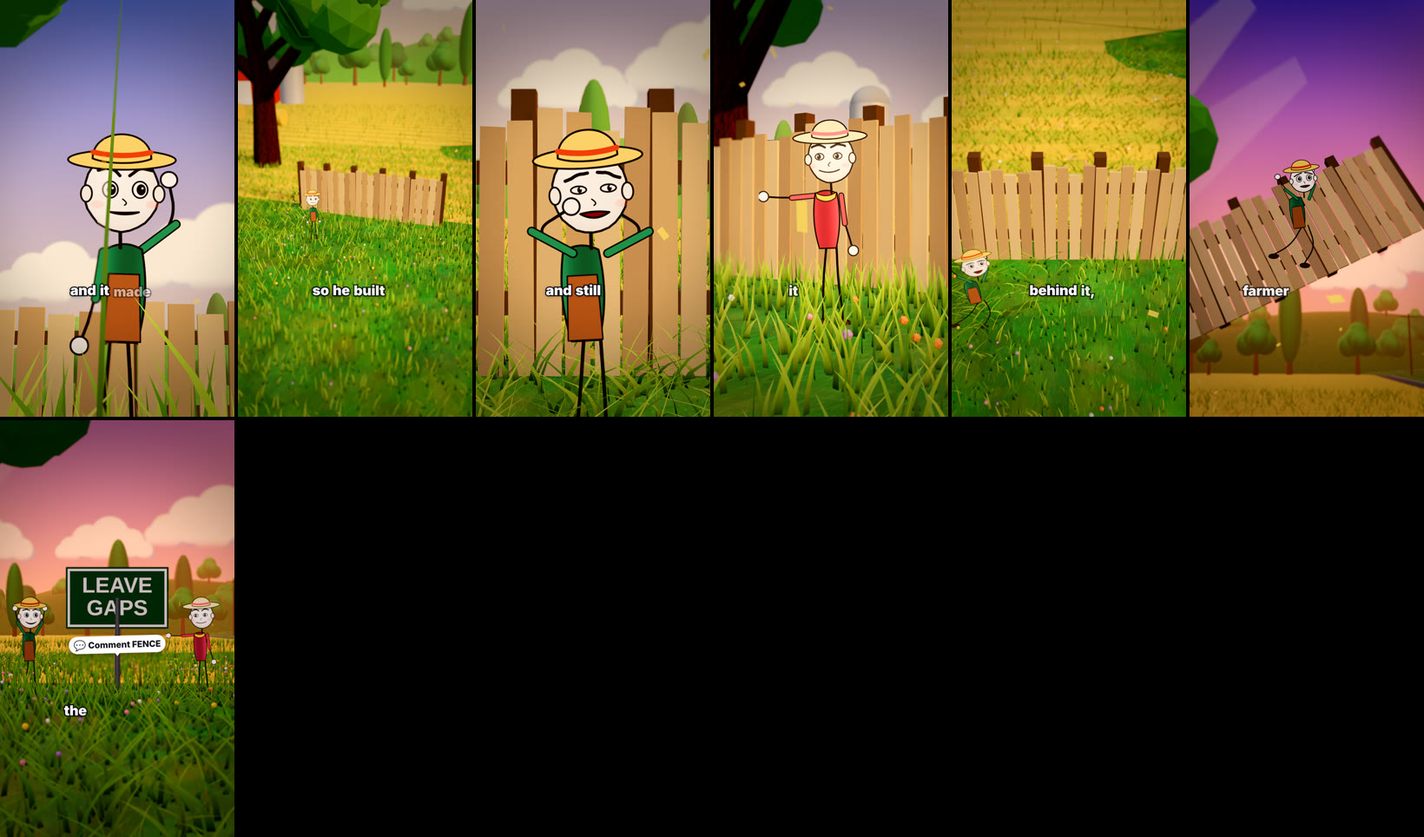
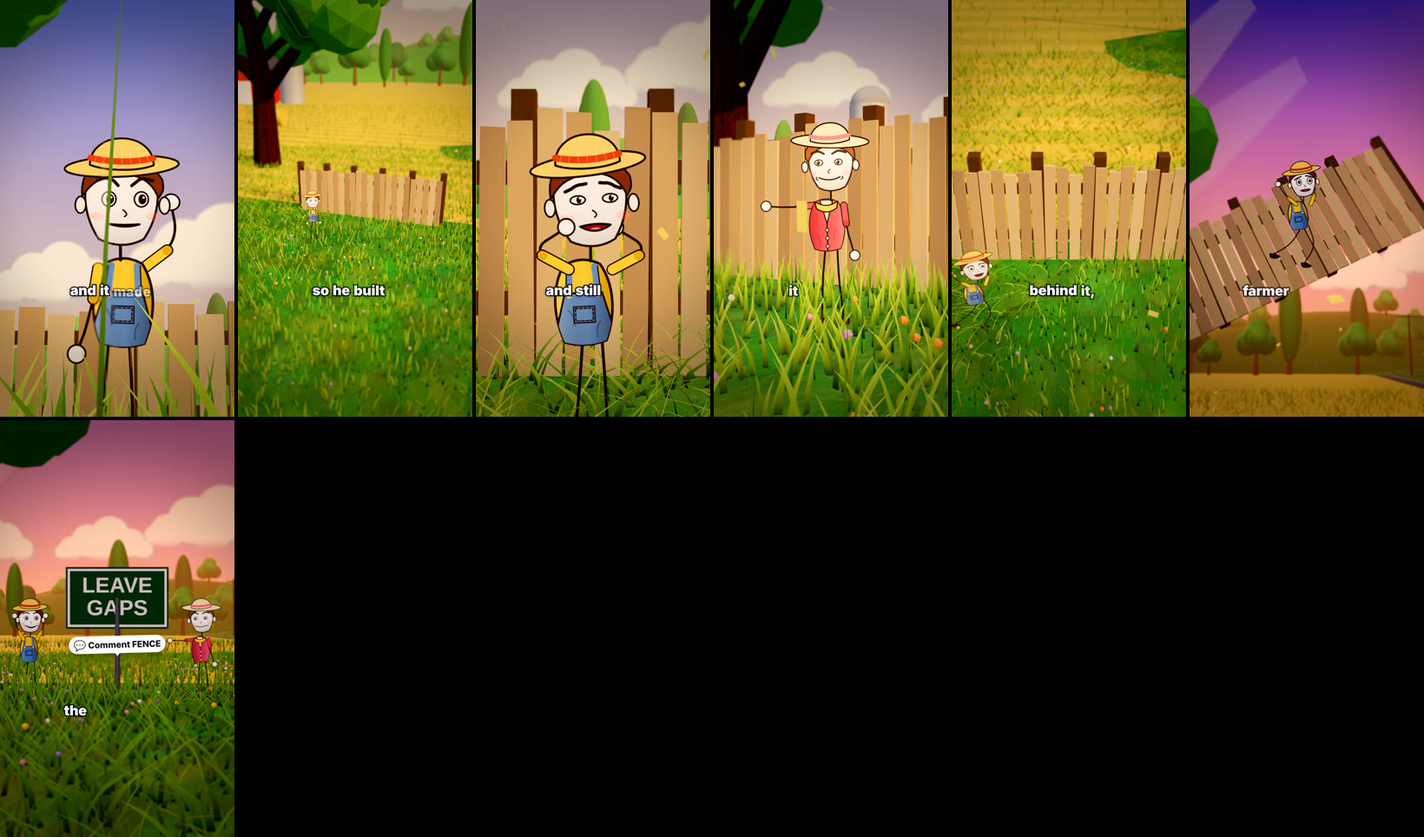
Character redesign for approval: exaggerated body types (style 2 canvas characters), chunky big-head clothed characters (style 3), character sheet tool and sheets

diff --git a/reel-studio/remotion-template/src/three/stickdraw.js b/reel-studio/remotion-template/src/three/stickdraw.js
@@ -2,7 +2,7 @@
 // Joint-driven: shoulders, elbows, hips, knees, torso lean, head tilt, a 3/4 turn, brows, blinking eyes, a continuous mouth, squash and stretch,
 // and the slightly boiling line of hand-drawn animation (the line re-wobbles at 12 fps). Pure function of its arguments.
 //   drawStick(ctx, W, H, s)  s = { t, pose: {...joints}, look:{...costume}, expr:{brow, tilt, smile, open, eyes, look:[x,y]}, turn, walk, seed }
-const R = Math.PI / 180, INK = '#161616';
+const R = Math.PI / 180, INK = '#241a15';
 export const POSES = {
   idle:   { sL: [8, 10], sR: [8, 10], hL: [4, 4], hR: [4, 4], lean: 0, tilt: 0 },
   point:  { sL: [8, 10], sR: [84, 8], hL: [4, 4], hR: [4, 4], lean: 4, tilt: 3 },
@@ -26,60 +26,71 @@ export function blendPose(a, b, k) { const o = {}; for (const key of Object.keys
 export function blendExpr(a, b, k) { const o = {}; for (const key of Object.keys(a)) o[key] = mix(a[key], b[key], k); return o; }
 
 export function drawStick(ctx, W, H, s) {
-  const { t = 0, pose = POSES.idle, look = {}, expr = EXPR.neutral, turn = 0, walk = 0, seed = 1 } = s, u = H / 1160, fr = Math.floor(t * 12), L = (w) => w * u;
+  const { t = 0, pose = POSES.idle, look = {}, expr = EXPR.neutral, turn = 0, walk = 0, seed = 1 } = s, u = H / 1420, B = { headS: 1.3, torsoW: 1, torsoH: 230, legL: 430, hand: 34, shoe: 1.3, armL: 1.1, ...(look.body || {}) }, fr = Math.floor(t * 12);
   ctx.clearRect(0, 0, W, H); ctx.save(); ctx.translate(W / 2, H * 0.985); ctx.scale(u, u); ctx.lineCap = 'round'; ctx.lineJoin = 'round';
-  const bob = Math.sin(t * 2.2 + seed) * 3 + Math.abs(Math.sin(walk * Math.PI)) * -16 * (walk ? 1 : 0), sq = 1 + Math.sin(t * 2.2 + seed) * 0.006;
-  const wb = (i, a = 2.2) => wob(seed + fr * 0.37, i, a);                       // boiling line: new wobble every 1/12 s
+  const wb = (i, a = 1.8) => wob(seed + fr * 0.37, i, a);
+  const bob = Math.sin(t * 2.2 + seed) * 3 + Math.abs(Math.sin(walk * Math.PI)) * -14 * (walk ? 1 : 0), lean = pose.lean * R + walk * 0.05;
+  // pen: every outline is inked twice, a firm line and a thinner offset one, so the weight swells and thins like a drawn line
+  const pen = (w, col = INK) => { ctx.strokeStyle = col; ctx.lineWidth = w; ctx.stroke(); ctx.save(); ctx.translate(1.6 + wb(31, 0.6), -1.2 + wb(32, 0.6)); ctx.globalAlpha = 0.5; ctx.lineWidth = w * 0.55; ctx.stroke(); ctx.restore(); };
   const stroke = (w, col = INK) => { ctx.strokeStyle = col; ctx.lineWidth = w; };
-  const line = (pts, w, col = INK) => { stroke(w, col); ctx.beginPath(); ctx.moveTo(pts[0][0] + wb(1), pts[0][1] + wb(2)); for (let i = 1; i < pts.length; i++) { const p = pts[i], q = pts[i - 1]; ctx.quadraticCurveTo(q[0] + wb(i * 3), q[1] + wb(i * 5), (p[0] + q[0]) / 2 + wb(i * 7), (p[1] + q[1]) / 2 + wb(i * 11)); } ctx.lineTo(pts[pts.length - 1][0] + wb(13), pts[pts.length - 1][1] + wb(17)); ctx.stroke(); };
-  const lean = pose.lean * R + walk * 0.05, hipY = -410 + bob, shY = -690 + bob, shX = Math.sin(lean) * 120, hdY = -870 + bob * 1.2;
-  const limb = (ox, oy, a1, a2, l1, l2, w, sd = 1) => { const e = [ox + sd * Math.sin(a1) * l1, oy + Math.cos(a1) * l1], h = [e[0] + sd * Math.sin(a1 + a2) * l2, e[1] + Math.cos(a1 + a2) * l2]; line([[ox, oy], e, h], w); return h; };
-  // legs (hip angle, knee bend); walking swings them in opposition
-  const sw = walk ? Math.sin(walk * Math.PI * 2) : 0, dirx = turn >= 0 ? 1 : -1, sp = Math.abs(turn) > 0.5 ? 0.5 : 0.12;   // side-on walk swings the legs along x, front-on lifts the knees
+  const line = (pts, w, col = INK) => { ctx.beginPath(); ctx.moveTo(pts[0][0] + wb(1), pts[0][1] + wb(2)); for (let i = 1; i < pts.length; i++) { const p = pts[i], q = pts[i - 1]; ctx.quadraticCurveTo(q[0] + wb(i * 3), q[1] + wb(i * 5), (p[0] + q[0]) / 2 + wb(i * 7), (p[1] + q[1]) / 2 + wb(i * 11)); } ctx.lineTo(pts[pts.length - 1][0] + wb(13), pts[pts.length - 1][1] + wb(17)); pen(w, col); };
+  const hipY = -B.legL + bob, shY = hipY - B.torsoH, shX = Math.sin(lean) * 110, hdY = shY - 52 - 146 * B.headS + bob * 0.3;
+  const limb = (ox, oy, a1, a2, l1, l2, w, sd = 1) => { const e = [ox + sd * Math.sin(a1) * l1, oy + Math.cos(a1) * l1], h = [e[0] + sd * Math.sin(a1 + a2) * l2, e[1] + Math.cos(a1 + a2) * l2]; line([[ox, oy], e, h], w); return { e, h }; };
+  const dirx = turn >= 0 ? 1 : -1, sw = walk ? Math.sin(walk * Math.PI * 2) : 0, sp = Math.abs(turn) > 0.5 ? 0.5 : 0.12;
   const thL = -pose.hL[0] * R - sw * sp * dirx, thR = pose.hR[0] * R + sw * sp * dirx, kL = (pose.hL[1] + Math.max(0, sw) * 40) * R, kR = (pose.hR[1] + Math.max(0, -sw) * 40) * R;
-  const boot = (p, ang) => { ctx.save(); ctx.translate(p[0], p[1] + 8); ctx.rotate(ang); stroke(L(7)); ctx.fillStyle = look.boots || '#2b2118'; ctx.beginPath(); ctx.ellipse(10 * dirx, 0, 46, 22, 0, 0, 7); ctx.fill(); ctx.stroke(); ctx.restore(); };
-  const lg = (hx, th, kb) => { const e = [hx + Math.sin(th) * 205, hipY + Math.cos(th) * 205], h = [e[0] + Math.sin(th - kb * Math.sign(th || 1) * 0.0 + kb * -1 * dirx) * 205, e[1] + Math.cos(th + kb * -1 * dirx) * 205]; line([[hx, hipY], e, h], 12); return h; };
-  const fL = lg(-26 + shX * 0.3, thL, kL), fR = lg(26 + shX * 0.3, thR, kR); boot(fL, 0); boot(fR, 0.05);
-  // back arm (viewer's right), torso, head, front arm
-  const hand = (p, col = '#fff') => { stroke(L(7)); ctx.fillStyle = col; ctx.beginPath(); ctx.arc(p[0], p[1], 27, 0, 7); ctx.fill(); ctx.stroke(); };
-  const armOf = (side, a) => { const ox = shX + side * 56, oy = shY + 20, e = [ox + side * Math.sin(a[0] * R) * 150, oy + Math.cos(a[0] * R) * 150], h = limb(ox, oy, a[0] * R, a[1] * R, 150, 150, 10, side); if (look.shirt) { ctx.lineCap = 'round'; ctx.strokeStyle = INK; ctx.lineWidth = 31; ctx.beginPath(); ctx.moveTo(ox, oy); ctx.lineTo(e[0], e[1]); ctx.stroke(); ctx.strokeStyle = look.shirt; ctx.lineWidth = 21; ctx.beginPath(); ctx.moveTo(ox, oy); ctx.lineTo(e[0], e[1]); ctx.stroke(); } return h; }, aR = armOf(1, pose.sR); hand(aR);
-  // torso (shirt, overalls)
-  const sh = look.shirt || '#2F7D5B', tw = 56, g = ctx.createLinearGradient(-tw, 0, tw, 0); g.addColorStop(0, sh); g.addColorStop(1, '#00000033');
-  ctx.save(); ctx.translate(shX * 0.5, 0); ctx.rotate(lean * 0.6); ctx.beginPath(); ctx.moveTo(-tw + wb(3), shY + 10); ctx.bezierCurveTo(-tw - 22, shY + 130, -tw - 10, hipY - 60, -tw + 10 + wb(4), hipY + 20); ctx.lineTo(tw - 10 + wb(5), hipY + 20); ctx.bezierCurveTo(tw + 10, hipY - 60, tw + 22, shY + 130, tw + wb(6), shY + 10); ctx.quadraticCurveTo(0, shY - 22, -tw, shY + 10); ctx.closePath();
-  ctx.fillStyle = sh; ctx.fill(); ctx.fillStyle = g; ctx.fill(); stroke(L(7.5)); ctx.stroke();
-  if (look.apron) { ctx.fillStyle = look.apron; ctx.beginPath(); ctx.moveTo(-48, shY + 90); ctx.lineTo(48, shY + 90); ctx.lineTo(56, hipY + 18); ctx.lineTo(-56, hipY + 18); ctx.closePath(); ctx.fill(); stroke(L(5)); ctx.stroke(); }
-  if (look.overalls) { ctx.fillStyle = look.overalls; ctx.beginPath(); ctx.moveTo(-56, shY + 130); ctx.lineTo(56, shY + 130); ctx.lineTo(tw - 8, hipY + 20); ctx.lineTo(-tw + 8, hipY + 20); ctx.closePath(); ctx.fill(); stroke(L(6)); ctx.stroke(); [-1, 1].forEach((sd) => { ctx.beginPath(); ctx.moveTo(sd * 40, shY + 130); ctx.lineTo(sd * 30, shY + 20); ctx.stroke(); }); }
-  if (look.scarf) { ctx.fillStyle = look.scarf; ctx.beginPath(); ctx.moveTo(-tw, shY + 4); ctx.quadraticCurveTo(0, shY + 40, tw, shY + 4); ctx.lineTo(tw - 6, shY + 34); ctx.quadraticCurveTo(0, shY + 70, -tw + 6, shY + 34); ctx.closePath(); ctx.fill(); stroke(L(5)); ctx.stroke(); }
+  const lg = (hx, th, kb) => { const l1 = B.legL * 0.49, l2 = B.legL * 0.51, e = [hx + Math.sin(th) * l1, hipY + Math.cos(th) * l1], h = [e[0] + Math.sin(th - kb * dirx) * l2, e[1] + Math.cos(th - kb * dirx) * l2]; line([[hx, hipY], e, h], 9); return h; };
+  const boot = (p, ang) => { ctx.save(); ctx.translate(p[0], p[1] + 6); ctx.rotate(ang); ctx.scale(B.shoe, B.shoe); ctx.fillStyle = look.boots || '#33261b'; ctx.beginPath(); ctx.moveTo(-26, -18); ctx.quadraticCurveTo(-30, 26, 8 * dirx, 26); ctx.quadraticCurveTo(64 * dirx, 28, 66 * dirx, 6); ctx.quadraticCurveTo(40 * dirx, -4, 26, -18); ctx.closePath(); ctx.fill(); pen(6); ctx.restore(); };
+  const fL = lg(-30 + shX * 0.3, thL, kL), fR = lg(30 + shX * 0.3, thR, kR); boot(fL, 0); boot(fR, 0.04);
+  const hand = (p, ang = 0) => { ctx.fillStyle = look.glove || '#fbf8f2'; ctx.beginPath(); ctx.arc(p[0], p[1], B.hand, 0, 7); ctx.fill(); pen(6); ctx.beginPath(); ctx.arc(p[0] + B.hand * 0.22, p[1] - B.hand * 0.22, B.hand * 0.26, 0, 7); ctx.fillStyle = '#fff'; ctx.fill(); };
+  const sleeve = look.sleeve || look.shirt, armOf = (side, a, front) => {
+    const ox = shX + side * 70 * B.torsoW, oy = shY + 22, L1 = 138 * B.armL, L2 = 134 * B.armL, e1 = [ox + side * Math.sin(a[0] * R) * L1, oy + Math.cos(a[0] * R) * L1], r = limb(ox, oy, a[0] * R, a[1] * R, L1, L2, 9, side);
+    if (sleeve) { ctx.lineCap = 'round'; const sl = (to, w) => { ctx.beginPath(); ctx.moveTo(ox, oy); ctx.lineTo(to[0], to[1]); ctx.strokeStyle = INK; ctx.lineWidth = w + 9; ctx.stroke(); ctx.strokeStyle = sleeve; ctx.lineWidth = w; ctx.stroke(); }; const mid = [ox + (e1[0] - ox) * 0.7, oy + (e1[1] - oy) * 0.7]; sl(mid, 30); ctx.beginPath(); ctx.moveTo(mid[0], mid[1]); ctx.lineTo(mid[0] + (e1[0] - ox) * 0.08, mid[1] + (e1[1] - oy) * 0.08); ctx.strokeStyle = '#00000030'; ctx.lineWidth = 32; ctx.stroke(); }
+    hand(r.h); return r.h; };
+  armOf(1, pose.sR, false);
+  // torso: a soft bean (shoulders narrower than the belly) with clothes drawn on it
+  const tw = 78, sh = look.shirt || '#d9a13a', gx = ctx.createLinearGradient(-tw, 0, tw, 0); gx.addColorStop(0, '#ffffff22'); gx.addColorStop(0.55, '#00000000'); gx.addColorStop(1, '#00000040');
+  ctx.save(); ctx.translate(shX * 0.5, 0); ctx.rotate(lean * 0.6); ctx.scale(B.torsoW, 1);
+  const bean = () => { ctx.beginPath(); ctx.moveTo(-58 + wb(3), shY + 6); ctx.bezierCurveTo(-98, shY + 70, -104, hipY - 70, -68 + wb(4), hipY + 22); ctx.quadraticCurveTo(0, hipY + 44, 68 + wb(5), hipY + 22); ctx.bezierCurveTo(104, hipY - 70, 98, shY + 70, 58 + wb(6), shY + 6); ctx.quadraticCurveTo(0, shY - 26, -58, shY + 6); ctx.closePath(); };
+  bean(); ctx.fillStyle = sh; ctx.fill(); ctx.fillStyle = gx; ctx.fill(); pen(8.5);
+  ctx.save(); bean(); ctx.clip();
+  if (look.overalls) { ctx.fillStyle = look.overalls; ctx.beginPath(); ctx.moveTo(-60, shY + 96); ctx.lineTo(60, shY + 96); ctx.lineTo(110, hipY + 50); ctx.lineTo(-110, hipY + 50); ctx.closePath(); ctx.fill(); ctx.fillStyle = gx; ctx.fill(); pen(6); [-1, 1].forEach((sd) => { ctx.beginPath(); ctx.moveTo(sd * 46, shY + 96); ctx.lineTo(sd * 40, shY + 12); ctx.strokeStyle = look.overalls; ctx.lineWidth = 20; ctx.stroke(); ctx.strokeStyle = INK; ctx.lineWidth = 4; ctx.beginPath(); ctx.moveTo(sd * 56, shY + 96); ctx.lineTo(sd * 50, shY + 12); ctx.stroke(); }); ctx.fillStyle = '#e8d4a0'; [-46, 46].forEach((x) => { ctx.beginPath(); ctx.arc(x, shY + 104, 8, 0, 7); ctx.fill(); }); ctx.strokeStyle = INK; ctx.lineWidth = 4; ctx.strokeRect(-34, shY + 140, 68, 52); ctx.setLineDash([8, 6]); ctx.strokeRect(-28, shY + 146, 56, 40); ctx.setLineDash([]); }
+  if (look.jacket) { ctx.fillStyle = look.jacket; ctx.fillRect(-120, shY - 20, 240, 400); ctx.fillStyle = gx; ctx.fillRect(-120, shY - 20, 240, 400); ctx.strokeStyle = INK; ctx.lineWidth = 6; ctx.beginPath(); ctx.moveTo(0, shY + 20); ctx.lineTo(0, hipY + 60); ctx.stroke(); ctx.fillStyle = look.collar || '#ffffff30'; ctx.beginPath(); ctx.moveTo(-40, shY + 2); ctx.lineTo(0, shY + 60); ctx.lineTo(40, shY + 2); ctx.closePath(); ctx.fill(); pen(5); [-1, 1].forEach((sd) => { ctx.strokeRect(sd * 60 - 26, hipY - 40, 52, 30); }); }
+  if (look.cardigan) { ctx.fillStyle = look.cardigan; ctx.fillRect(-120, shY - 20, 240, 400); ctx.fillStyle = gx; ctx.fillRect(-120, shY - 20, 240, 400); ctx.fillStyle = look.shirt; ctx.beginPath(); ctx.moveTo(-34, shY - 6); ctx.lineTo(0, shY + 120); ctx.lineTo(34, shY - 6); ctx.closePath(); ctx.fill(); ctx.strokeStyle = INK; ctx.lineWidth = 6; ctx.stroke(); ctx.beginPath(); ctx.moveTo(0, shY + 120); ctx.lineTo(0, hipY + 60); ctx.stroke(); ctx.fillStyle = '#f4e9d0'; [0.2, 0.45, 0.7].forEach((k) => { ctx.beginPath(); ctx.arc(0, shY + 120 + (hipY - shY - 60) * k, 9, 0, 7); ctx.fill(); ctx.lineWidth = 4; ctx.stroke(); }); }
+  if (look.apron) { ctx.fillStyle = look.apron; ctx.beginPath(); ctx.moveTo(-50, shY + 70); ctx.lineTo(50, shY + 70); ctx.lineTo(70, hipY + 40); ctx.lineTo(-70, hipY + 40); ctx.closePath(); ctx.fill(); pen(5); }
+  ctx.strokeStyle = '#00000038'; ctx.lineWidth = 5; ctx.beginPath(); ctx.moveTo(-52, shY + 150); ctx.quadraticCurveTo(-30, shY + 170, -34, shY + 200); ctx.moveTo(50, shY + 190); ctx.quadraticCurveTo(34, shY + 210, 40, shY + 240); ctx.stroke();
   ctx.restore();
-  // neck + head
-  line([[shX * 0.6, shY + 6], [shX * 0.8 + wb(9), hdY + 100]], 12);
-  ctx.save(); ctx.translate(shX * 1.1, hdY); ctx.rotate((pose.tilt + (expr.tilt2 || 0)) * R); const hw = 124 * (1 - Math.abs(turn) * 0.1), hh = 134;
-  const hg = ctx.createRadialGradient(-hw * 0.35 + turn * 20, -hh * 0.4, 10, 0, 0, hh * 1.1); hg.addColorStop(0, '#ffffff'); hg.addColorStop(0.7, '#f4f1ec'); hg.addColorStop(1, '#d9d4cb');
-  ctx.beginPath(); for (let i = 0; i <= 28; i++) { const a = (i / 28) * Math.PI * 2, rr = 1 + wb(i + 40, 0.012); const x = Math.cos(a) * hw * rr, y = Math.sin(a) * hh * rr * (Math.sin(a) > 0 ? 1.0 : 1.02); i ? ctx.lineTo(x, y) : ctx.moveTo(x, y); } ctx.closePath(); ctx.fillStyle = hg; ctx.fill(); stroke(L(8)); ctx.stroke();
-  const fx = turn * 46;   // face slides toward the turn
-  ctx.fillStyle = '#efeae2'; stroke(L(6.5)); [-1, 1].forEach((sd) => { ctx.beginPath(); ctx.ellipse(sd * (hw - 4) + fx * 0.3, 8, 18, 28, 0, 0, 7); ctx.fill(); ctx.stroke(); });
-  ctx.beginPath(); ctx.ellipse(0, 0, 1, 1, 0, 0, 0); 
-  ctx.beginPath(); ctx.moveTo(fx * 1.0 - 8, 26); ctx.quadraticCurveTo(fx * 1.0 + 12, 40, fx * 1.0 - 2, 46); stroke(L(5)); ctx.stroke();
-  if (look.hair) { ctx.fillStyle = look.hair; ctx.beginPath(); ctx.moveTo(-hw + 6, -20); ctx.bezierCurveTo(-hw - 12, -150, -30, -170, 30 + fx * 0.4, -150); ctx.bezierCurveTo(120, -140, hw + 8, -80, hw - 6, -14); ctx.bezierCurveTo(80, -86, -50, -96, -hw + 6, -20); ctx.fill(); stroke(L(6.5)); ctx.stroke(); }
-  const ep = { l: [-48 + fx, -6], r: [48 + fx, -6] }, open = Math.max(0, Math.min(1, expr.eyes ?? 1)), blink = (() => { const c = (t + seed * 0.7) % 4.1; return c < 0.13 ? Math.sin((c / 0.13) * Math.PI) : 0; })(), eo = open * (1 - blink * 0.95);
+  if (look.scarf) { ctx.fillStyle = look.scarf; ctx.beginPath(); ctx.moveTo(-60, shY + 2); ctx.quadraticCurveTo(0, shY + 44, 60, shY + 2); ctx.lineTo(54, shY + 38); ctx.quadraticCurveTo(0, shY + 78, -54, shY + 38); ctx.closePath(); ctx.fill(); pen(6); }
+  ctx.restore();
+  // neck, head (egg: broad at the cheeks, a softer chin), face, hair, hat
+  ctx.save(); ctx.translate(shX * 0.9, 0); line([[0, shY - 4], [wb(9), hdY + 108 * B.headS]], 10); ctx.restore();
+  ctx.save(); ctx.translate(shX * 1.1, hdY); ctx.rotate((pose.tilt + (look.headTilt || 0) + (expr.tilt2 || 0)) * R); ctx.scale(B.headS, B.headS); const hw = 132 * (1 - Math.abs(turn) * 0.08), hh = 146, fx = turn * 48;
+  const headPath = () => { ctx.beginPath(); ctx.moveTo(0, -hh); ctx.bezierCurveTo(hw * 1.04, -hh, hw * 1.12, hh * 0.1, hw * 0.55, hh * 0.86); ctx.quadraticCurveTo(fx * 0.3, hh * 1.12, -hw * 0.55, hh * 0.86); ctx.bezierCurveTo(-hw * 1.12, hh * 0.1, -hw * 1.04, -hh, 0, -hh); ctx.closePath(); };
+  headPath(); const hg = ctx.createRadialGradient(-hw * 0.35 + turn * 20, -hh * 0.4, 10, 0, 0, hh * 1.15); hg.addColorStop(0, '#ffffff'); hg.addColorStop(0.65, '#f6f2ec'); hg.addColorStop(1, '#ddd6cb'); ctx.fillStyle = hg; ctx.fill(); pen(7.5);
+  ctx.save(); headPath(); ctx.clip(); const sg = ctx.createLinearGradient(0, hh * 0.1, 0, hh * 1.1); sg.addColorStop(0, 'rgba(110,120,160,0)'); sg.addColorStop(1, 'rgba(110,120,160,0.26)'); ctx.fillStyle = sg; ctx.fillRect(-hw * 1.3, hh * 0.1, hw * 2.6, hh); ctx.restore();
+  ctx.fillStyle = '#f1ece4'; [-1, 1].forEach((sd) => { ctx.beginPath(); ctx.ellipse(sd * (hw * 1.04) + fx * 0.3, 14, 17, 28, 0, 0, 7); ctx.fill(); pen(6); });
+  if (look.hair) { ctx.fillStyle = look.hair; ctx.beginPath(); ctx.moveTo(-hw * 0.98, -16); ctx.bezierCurveTo(-hw * 1.1, -hh * 1.22, hw * 0.4 + fx * 0.3, -hh * 1.34, hw * 1.02, -hh * 0.5); ctx.bezierCurveTo(hw * 1.08, -hh * 0.2, hw, -30, hw * 0.92, -10); ctx.bezierCurveTo(hw * 0.7, -hh * 0.62, 10 + fx * 0.4, -hh * 0.72, -hw * 0.5, -hh * 0.5); ctx.bezierCurveTo(-hw * 0.8, -hh * 0.4, -hw * 0.95, -hh * 0.1, -hw * 0.98, -16); ctx.fill(); pen(6.5); ctx.beginPath(); ctx.moveTo(-hw * 0.3, -hh * 0.98); ctx.quadraticCurveTo(-hw * 0.05, -hh * 1.12, hw * 0.3, -hh * 1.0); ctx.strokeStyle = '#ffffff40'; ctx.lineWidth = 9; ctx.stroke(); }
+  const ep = { l: [-52 + fx, -6], r: [52 + fx, -6] }, open = Math.max(0, Math.min(1.3, expr.eyes ?? 1)), blink = (() => { const c = (t + seed * 0.7) % 4.1; return c < 0.13 ? Math.sin((c / 0.13) * Math.PI) : 0; })(), eo = open * (1 - blink * 0.95);
   for (const [k, side] of [['l', -1], ['r', 1]]) {
-    const [ex, ey] = ep[k], rx = 25 * (1 + (open - 1) * 0.2), ry = Math.max(2.5, 31 * eo);
-    if (open < 0.12) { stroke(L(8)); ctx.beginPath(); ctx.arc(ex, ey + 10, 26, Math.PI * 1.1, Math.PI * 1.9); ctx.stroke(); continue; }
-    ctx.fillStyle = '#fff'; ctx.beginPath(); ctx.ellipse(ex, ey, rx, ry, 0, 0, 7); ctx.fill(); stroke(L(6)); ctx.stroke();
-    const lk = s.gaze || [0, 0], px = ex + lk[0] * 10 + turn * 6, py = ey + lk[1] * 8; ctx.fillStyle = INK; ctx.beginPath(); ctx.ellipse(px, py, 15 * Math.min(1, ry / 24), Math.min(19, ry * 0.8), 0, 0, 7); ctx.fill(); ctx.fillStyle = '#fff'; ctx.beginPath(); ctx.arc(px + 4, py - 5, 3.4, 0, 7); ctx.fill();
-    const by = ey - 56 - expr.brow * 24, outer = [ex + side * 40, by + expr.tilt * 8 + (expr.tilt < 0 ? 4 : 0)], inner = [ex - side * 32, by - expr.tilt * 20], mid = [ex, by - 12 - Math.abs(expr.tilt) * 2]; line([outer, mid, inner], 11);
+    const [ex, ey] = ep[k], rx = 23 * (1 + (open - 1) * 0.2), ry = Math.max(2.5, 28 * eo);
+    if (open < 0.12) { ctx.beginPath(); ctx.moveTo(ex - side * 26, ey - 18); ctx.lineTo(ex + side * 22, ey + 4); ctx.lineTo(ex - side * 26, ey + 26); pen(8); }   // squeezed ">" eye of a big laugh
+    else { ctx.fillStyle = '#fff'; ctx.beginPath(); ctx.ellipse(ex, ey, rx, ry, 0, 0, 7); ctx.fill(); pen(5.5);
+      const lk = s.gaze || [0, 0], px = ex + lk[0] * 9 + turn * 6, py = ey + lk[1] * 7; ctx.fillStyle = INK; ctx.beginPath(); ctx.ellipse(px, py, 13 * Math.min(1, ry / 22), Math.min(17, ry * 0.78), 0, 0, 7); ctx.fill(); ctx.fillStyle = '#fff'; ctx.beginPath(); ctx.arc(px + 4, py - 6, 3.6, 0, 7); ctx.fill(); }
+    const by = ey - 54 - expr.brow * 24, outer = [ex + side * 38, by + expr.tilt * 8 + (expr.tilt < 0 ? 4 : 0)], inner = [ex - side * 30, by - expr.tilt * 20], mid = [ex, by - 12 - Math.abs(expr.tilt) * 2]; line([outer, mid, inner], 11);
   }
-  // mouth: a continuous curve from smile to frown with an opening
-  const mx = fx * 0.9, my = 70, sm = expr.smile, op = Math.max(0, Math.min(1, expr.open + (s.talk || 0) * 0.7)), mw = 44 + Math.abs(sm) * 14;
-  ctx.beginPath(); ctx.moveTo(mx - mw, my - sm * 6); ctx.quadraticCurveTo(mx, my + sm * 34 - op * 4, mx + mw, my - sm * 6); if (op > 0.12) { ctx.quadraticCurveTo(mx, my + sm * 30 + op * 74, mx - mw, my - sm * 6); ctx.closePath(); ctx.fillStyle = '#6b1d22'; ctx.fill(); if (op > 0.5 && sm > 0.3) { ctx.fillStyle = '#fff'; ctx.fillRect(mx - mw * 0.75, my - sm * 5, mw * 1.5, 12); ctx.fillStyle = '#e8737a'; ctx.beginPath(); ctx.ellipse(mx, my + op * 46, mw * 0.5, 14, 0, 0, 7); ctx.fill(); } }
-  stroke(L(7.5)); ctx.stroke();
-  if (look.cheeks !== false) { ctx.fillStyle = 'rgba(240,120,110,0.28)'; [-1, 1].forEach((sd) => { ctx.beginPath(); ctx.ellipse(sd * 88 + fx, 44, 22, 13, 0, 0, 7); ctx.fill(); }); }
-  if (look.glasses) { stroke(L(6)); ctx.fillStyle = 'rgba(160,180,195,0.45)'; [-1, 1].forEach((sd) => { ctx.beginPath(); ctx.roundRect(sd * 48 + fx - 36, -44, 72, 76, 22); ctx.fill(); ctx.stroke(); }); }
-  // hats
+  const nz = look.nose || 1; ctx.beginPath(); ctx.moveTo(fx - 7 * nz, 24); ctx.quadraticCurveTo(fx + 16 * nz, 24 + 20 * nz, fx - 2 * nz, 24 + 28 * nz); pen(5 + nz);
+  if (look.stache) { ctx.fillStyle = look.stache; ctx.beginPath(); ctx.moveTo(fx, 56); ctx.bezierCurveTo(fx - 30, 44, fx - 76, 54, fx - 84, 78); ctx.bezierCurveTo(fx - 56, 66, fx - 30, 68, fx, 66); ctx.bezierCurveTo(fx + 30, 68, fx + 56, 66, fx + 84, 78); ctx.bezierCurveTo(fx + 76, 54, fx + 30, 44, fx, 56); ctx.fill(); pen(5); }
+  if (look.freckles) { ctx.fillStyle = look.freckles; [[-74, 40], [-58, 52], [-86, 58], [70, 40], [56, 54], [86, 58]].forEach(([x, y]) => { ctx.beginPath(); ctx.arc(x + fx, y, 4, 0, 7); ctx.fill(); }); }
+  const mx = fx * 0.9, my = 78, sm = expr.smile, op = Math.max(0, Math.min(1, expr.open + (s.talk || 0) * 0.7)), mw = 46 + Math.abs(sm) * 16;
+  ctx.beginPath(); ctx.moveTo(mx - mw, my - sm * 8); ctx.quadraticCurveTo(mx, my + sm * 36 - op * 4, mx + mw, my - sm * 8);
+  if (op > 0.12) { ctx.quadraticCurveTo(mx, my + sm * 30 + op * 80, mx - mw, my - sm * 8); ctx.closePath(); ctx.fillStyle = '#7a1f26'; ctx.fill(); ctx.save(); ctx.clip(); if (sm > 0.2) { ctx.fillStyle = '#fff'; ctx.fillRect(mx - mw, my - sm * 9, mw * 2, 16 + op * 8); ctx.strokeStyle = INK; ctx.lineWidth = 3; for (let q = -2; q <= 2; q++) { ctx.beginPath(); ctx.moveTo(mx + q * 18, my - sm * 9); ctx.lineTo(mx + q * 18, my - sm * 9 + 20); ctx.stroke(); } } ctx.fillStyle = '#e8737a'; ctx.beginPath(); ctx.ellipse(mx, my + op * 54, mw * 0.55, 20, 0, 0, 7); ctx.fill(); ctx.restore(); ctx.beginPath(); ctx.moveTo(mx - mw, my - sm * 8); ctx.quadraticCurveTo(mx, my + sm * 36 - op * 4, mx + mw, my - sm * 8); ctx.quadraticCurveTo(mx, my + sm * 30 + op * 80, mx - mw, my - sm * 8); }
+  pen(7);
+  if (sm > 0.4) { [-1, 1].forEach((sd) => { ctx.beginPath(); ctx.moveTo(mx + sd * (mw + 10), my - sm * 14); ctx.quadraticCurveTo(mx + sd * (mw + 22), my - sm * 2, mx + sd * (mw + 6), my + 8); pen(5); }); }
+  if (look.cheeks !== false) { ctx.fillStyle = 'rgba(238,120,110,0.3)'; [-1, 1].forEach((sd) => { ctx.beginPath(); ctx.ellipse(sd * 92 + fx, 52, 24, 14, 0, 0, 7); ctx.fill(); }); }
+  if (look.glasses) { ctx.fillStyle = 'rgba(170,190,205,0.45)'; [-1, 1].forEach((sd) => { ctx.beginPath(); ctx.roundRect(sd * 52 + fx - 38, -48, 76, 80, 22); ctx.fill(); pen(6.5); }); ctx.beginPath(); ctx.moveTo(fx - 14, -16); ctx.quadraticCurveTo(fx, -26, fx + 14, -16); pen(6); }
   const hat = look.hat, hc = look.hatColor || '#E3C06A';
-  if (hat === 'straw' || hat === 'sun') { ctx.fillStyle = hc; ctx.beginPath(); ctx.ellipse(0, -108, hat === 'sun' ? 196 : 176, 34, 0, 0, 7); ctx.fill(); stroke(L(7)); ctx.stroke(); ctx.beginPath(); ctx.moveTo(-96, -112); ctx.bezierCurveTo(-96, -226, 96, -226, 96, -112); ctx.bezierCurveTo(50, -92, -50, -92, -96, -112); ctx.fill(); ctx.stroke(); ctx.strokeStyle = look.band || '#B04A2E'; ctx.lineWidth = L(20); ctx.beginPath(); ctx.moveTo(-94, -134); ctx.quadraticCurveTo(0, -112, 94, -134); ctx.stroke(); }
-  if (hat === 'cap') { ctx.fillStyle = hc; ctx.beginPath(); ctx.moveTo(-120, -64); ctx.bezierCurveTo(-120, -190, 120, -190, 120, -64); ctx.closePath(); ctx.fill(); stroke(L(7)); ctx.stroke(); ctx.beginPath(); ctx.moveTo(30 + fx, -78); ctx.quadraticCurveTo(150 + fx, -86, 178 + fx, -56); ctx.quadraticCurveTo(100 + fx, -52, 24 + fx, -60); ctx.closePath(); ctx.fill(); ctx.stroke(); }
+  if (hat === 'straw' || hat === 'sun') { ctx.fillStyle = hc; ctx.beginPath(); ctx.ellipse(0, -118, hat === 'sun' ? 206 : 186, 36, -0.06, 0, 7); ctx.fill(); pen(7); ctx.beginPath(); ctx.moveTo(-104, -122); ctx.bezierCurveTo(-104, -246, 104, -246, 104, -122); ctx.bezierCurveTo(54, -100, -54, -100, -104, -122); ctx.fill(); pen(7); ctx.strokeStyle = look.band || '#B04A2E'; ctx.lineWidth = 22; ctx.beginPath(); ctx.moveTo(-102, -146); ctx.quadraticCurveTo(0, -122, 102, -146); ctx.stroke(); ctx.strokeStyle = '#ffffff30'; ctx.lineWidth = 3; for (let q = -3; q <= 3; q++) { ctx.beginPath(); ctx.moveTo(q * 26, -190 + Math.abs(q) * 8); ctx.lineTo(q * 30, -128); ctx.stroke(); } }
+  if (hat === 'cap') { ctx.fillStyle = hc; ctx.beginPath(); ctx.moveTo(-128, -70); ctx.bezierCurveTo(-130, -214, 128, -214, 128, -70); ctx.closePath(); ctx.fill(); pen(7.5); ctx.fillStyle = '#ffffff2a'; ctx.beginPath(); ctx.ellipse(-40, -150, 48, 22, -0.4, 0, 7); ctx.fill(); ctx.fillStyle = hc; ctx.beginPath(); ctx.moveTo(26 + fx, -82); ctx.quadraticCurveTo(168 + fx, -96, 200 + fx, -54); ctx.quadraticCurveTo(110 + fx, -48, 20 + fx, -62); ctx.closePath(); ctx.fill(); pen(7); ctx.beginPath(); ctx.arc(0, -186, 9, 0, 7); ctx.fillStyle = INK; ctx.fill(); }
   ctx.restore();
-  const aL = armOf(-1, pose.sL); hand(aL);
+  armOf(-1, pose.sL, true);
   ctx.restore();
 }

diff --git a/reel-studio/remotion-template/src/components/stick/stickman_svg.js b/reel-studio/remotion-template/src/components/stick/stickman_svg.js
@@ -4,10 +4,10 @@
 export const POSES = ['idle', 'point', 'cheer', 'shock', 'think', 'shrug', 'walkA', 'walkB', 'flail', 'hammer'];
 export const MOODS = ['neutral', 'happy', 'laugh', 'shock', 'sad', 'smug', 'scared', 'angry', 'determined'];
 export const MOODS_ALL = [...MOODS, 'grimace', 'worried'];
-const INK = '#141414', W = 7;
+const INK = '#141414', W = 8;
 const P = (a) => a.map((v) => (typeof v === 'number' ? Math.round(v * 10) / 10 : v)).join(' ');
 // each pose: [right-shoulder side arm path (elbow, hand), left arm (elbow, hand), leg feet x offsets, body lean px, head dy]
-const SH = { L: [214, 404], R: [298, 404] };
+const SH = { L: [198, 410], R: [314, 410] };
 const POSE = {
   idle:   { aL: [[196, 500], [190, 590]], aR: [[316, 500], [322, 590]], legs: [-34, 34], lean: 0, bob: 0 },
   point:  { aL: [[190, 500], [186, 586]], aR: [[372, 420], [452, 396]], legs: [-30, 36], lean: 6, bob: 0 },
@@ -76,25 +76,28 @@ export function stickG({ pose = 'idle', mood = 'neutral', mouth: m = 'closed', l
   const po = POSE[pose] || POSE.idle, shirt = look.shirt || '#2F7D5B', hatKind = look.hat ?? 'straw', hatCol = look.hatColor || '#E3C06A', lean = po.lean, bob = po.bob;
   const hx = 256 + lean * 1.4, hy = 236 + bob, nx = 256 + lean * 0.8, ty = 392 + bob * 0.6;
   const hipL = [256 - 22 + lean * 0.3, 640], hipR = [256 + 22 + lean * 0.3, 640];
-  const legL = limb(hipL[0], hipL[1], [hipL[0] + po.legs[0] * 0.4, 820], [256 + po.legs[0] * 1.5 - 20, 976]), legR = limb(hipR[0], hipR[1], [hipR[0] + po.legs[1] * 0.4, 820], [256 + po.legs[1] * 1.5 + 20, 976]);
-  const shoe = (x) => `<ellipse cx="${x}" cy="990" rx="40" ry="17" fill="#222" stroke="${INK}" stroke-width="${W}"/>`;
+  const legL = limb(hipL[0], hipL[1], [hipL[0] + po.legs[0] * 0.4, 820], [256 + po.legs[0] * 1.5 - 20, 976], INK, 17), legR = limb(hipR[0], hipR[1], [hipR[0] + po.legs[1] * 0.4, 820], [256 + po.legs[1] * 1.5 + 20, 976], INK, 17);
+  const shoe = (x) => `<ellipse cx="${x}" cy="990" rx="52" ry="22" fill="#222" stroke="${INK}" stroke-width="${W}"/>`;
   const aL = po.aL, aR = po.aR, sL = [SH.L[0] + lean * 0.8, ty + 14], sR = [SH.R[0] + lean * 0.8, ty + 14];
-  const hands = (A, S) => limb(S[0], S[1], A[0], A[1]) + hand(A[1][0], A[1][1]);
+  const slv = look.sleeve || shirt, hands = (A, S) => { const d = `M ${S[0]} ${S[1]} Q ${A[0][0]} ${A[0][1]} ${A[1][0]} ${A[1][1]}`; return `<path d="${d}" fill="none" stroke="${INK}" stroke-width="${look.thin ? 24 : 44}" stroke-linecap="round" stroke-linejoin="round"/><path d="${d}" fill="none" stroke="${slv}" stroke-width="${look.thin ? 12 : 31}" stroke-linecap="round" stroke-linejoin="round"/>` + hand(A[1][0], A[1][1]); };
   const E1 = look.eyeStyle === 'ink' ? inkEye : eye, bw = look.eyeStyle === 'ink' ? 17 : 12, face = `${E1(hx - 52, hy + 4, mood, -1)}${E1(hx + 52, hy + 4, mood, 1)}<path d="${brow(hx - 52, hy - 62, mood, -1)}" fill="none" stroke="${INK}" stroke-width="${bw}" stroke-linecap="round"/><path d="${brow(hx + 52, hy - 62, mood, 1)}" fill="none" stroke="${INK}" stroke-width="${bw}" stroke-linecap="round"/>${mouth(mood, m, hx, hy + 78)}`;
   const cheeks = look.cheeks === false ? '' : `<ellipse cx="${hx - 98}" cy="${hy + 58}" rx="20" ry="12" fill="#f4a9a0" opacity="0.55"/><ellipse cx="${hx + 98}" cy="${hy + 58}" rx="20" ry="12" fill="#f4a9a0" opacity="0.55"/>`;
   const sweat = mood === 'scared' ? `<path d="M ${hx + 138} ${hy - 80} Q ${hx + 156} ${hy - 40} ${hx + 138} ${hy - 22} Q ${hx + 118} ${hy - 40} ${hx + 138} ${hy - 80} Z" fill="#8fd3ff" stroke="${INK}" stroke-width="5"/>` : '';
   const folds = `<path d="M ${nx - 30} ${ty + 90} q 14 16 4 40 M ${nx + 26} ${ty + 120} q -12 16 -2 34" fill="none" stroke="#00000040" stroke-width="5" stroke-linecap="round"/>`;
-  const torso = `<path d="M ${nx - 52} ${ty} Q ${nx - 66} ${ty + 120} ${nx - 46} ${ty + 244} L ${nx + 46} ${ty + 244} Q ${nx + 66} ${ty + 120} ${nx + 52} ${ty} Q ${nx} ${ty - 14} ${nx - 52} ${ty} Z" fill="${shirt}" stroke="${INK}" stroke-width="${W}" stroke-linejoin="round"/>` + (look.apron ? `<path d="M ${nx - 36} ${ty + 70} L ${nx + 36} ${ty + 70} L ${nx + 42} ${ty + 244} L ${nx - 42} ${ty + 244} Z" fill="${look.apron}" stroke="${INK}" stroke-width="5"/>` : '') + (look.scarf ? `<path d="M ${nx - 58} ${ty - 2} Q ${nx} ${ty + 22} ${nx + 58} ${ty - 2} L ${nx + 54} ${ty + 22} Q ${nx} ${ty + 46} ${nx - 54} ${ty + 22} Z" fill="${look.scarf}" stroke="${INK}" stroke-width="5"/>` : '');
+  const torso = `<path d="M ${nx - 62} ${ty} C ${nx - 108} ${ty + 70} ${nx - 112} ${ty + 190} ${nx - 76} ${ty + 244} Q ${nx} ${ty + 272} ${nx + 76} ${ty + 244} C ${nx + 112} ${ty + 190} ${nx + 108} ${ty + 70} ${nx + 62} ${ty} Q ${nx} ${ty - 20} ${nx - 62} ${ty} Z" fill="${shirt}" stroke="${INK}" stroke-width="${W}" stroke-linejoin="round"/>` + (look.apron ? `<path d="M ${nx - 36} ${ty + 70} L ${nx + 36} ${ty + 70} L ${nx + 42} ${ty + 244} L ${nx - 42} ${ty + 244} Z" fill="${look.apron}" stroke="${INK}" stroke-width="5"/>` : '') + (look.scarf ? `<path d="M ${nx - 58} ${ty - 2} Q ${nx} ${ty + 22} ${nx + 58} ${ty - 2} L ${nx + 54} ${ty + 22} Q ${nx} ${ty + 46} ${nx - 54} ${ty + 22} Z" fill="${look.scarf}" stroke="${INK}" stroke-width="5"/>` : '');
   const prop = pose === 'hammer' ? `<g transform="translate(${aR[1][0]} ${aR[1][1]}) rotate(-24)"><rect x="-8" y="-150" width="16" height="170" rx="6" fill="#9b6b3c" stroke="${INK}" stroke-width="5"/><rect x="-44" y="-176" width="88" height="40" rx="8" fill="#9aa3ad" stroke="${INK}" stroke-width="6"/></g>` : '';
   const hoodie = look.top === 'hoodie', hairC = look.hairColor || '#2a1d14';
   const hoodTorso = hoodie ? `<path d="M ${nx - 40} ${ty + 150} Q ${nx} ${ty + 176} ${nx + 40} ${ty + 150} L ${nx + 36} ${ty + 214} L ${nx - 36} ${ty + 214} Z" fill="none" stroke="${INK}" stroke-width="5"/><path d="M ${nx - 14} ${ty + 6} L ${nx - 18} ${ty + 70} M ${nx + 14} ${ty + 6} L ${nx + 18} ${ty + 70}" stroke="#eee" stroke-width="5" stroke-linecap="round"/>` : '';
-  return `${hoodie ? hoodBack(hx, hy, shirt) : ''}${legL}${legR}${shoe(256 + po.legs[0] * 1.5 - 20)}${shoe(256 + po.legs[1] * 1.5 + 20)}
-${hands(aL, sL)}
-<line x1="${nx}" y1="${hy + 150}" x2="${nx}" y2="${ty + 6}" stroke="${INK}" stroke-width="15" stroke-linecap="round"/>
-${torso}${folds}${hoodTorso}
-<circle cx="${hx}" cy="${hy}" r="158" fill="#fff" stroke="${INK}" stroke-width="${W + 1}"/>${look.shade === false ? '' : `<path d="M ${hx - 110} ${hy + 112} A 158 158 0 0 0 ${hx + 112} ${hy + 112} A 158 158 0 0 1 ${hx - 110} ${hy + 112} Z" fill="#8a93a8" opacity="0.28"/>`}${look.rim ? `<path d="M ${hx + 150} ${hy - 50} A 150 150 0 0 1 ${hx + 60} ${hy + 138}" fill="none" stroke="${look.rim}" stroke-width="8" stroke-linecap="round" opacity="0.75"/>` : ''}
-${cheeks}${face}${look.glasses ? glasses(hx, hy + 4) : ''}${sweat}${tear(mood, hx, hy)}${hair(look.hair, hx, hy, hairC)}${hatKind === 'capback' ? capBack(hx, hy, look.hatColor || '#D8342B') : hat(hatKind, hx, hy, hatCol)}
-${hands(aR, sR)}${prop}`;
+  const HS = look.headS ?? 1.22, BW = look.bodyW ?? 1, pc = look.pants;
+  const legCol = pc ? (l) => l.replace(/stroke="#141414" stroke-width="17"/, `stroke="${pc}" stroke-width="15"`) : (l) => l;
+  const legsSvg = pc ? [legL, legR].map((l) => l.replace(/stroke="#141414" stroke-width="\d+"/, `stroke="#141414" stroke-width="30"`) + l.replace(/stroke="#141414" stroke-width="\d+"/, `stroke="${pc}" stroke-width="19"`)).join('') : `${legL}${legR}`;
+  return `${hoodie ? `<g transform="translate(${hx} ${hy}) scale(${HS}) translate(${-hx} ${-hy})">${hoodBack(hx, hy, shirt)}</g>` : ''}${legsSvg}${shoe(256 + po.legs[0] * 1.5 - 20)}${shoe(256 + po.legs[1] * 1.5 + 20)}
+<line x1="${nx}" y1="${hy + 150}" x2="${nx}" y2="${ty + 6}" stroke="${INK}" stroke-width="18" stroke-linecap="round"/>
+<g transform="translate(${nx} 0) scale(${BW} 1) translate(${-nx} 0)">${torso}${folds}${hoodTorso}</g>
+<g transform="translate(${hx} ${hy + 120}) scale(${HS}) translate(${-hx} ${-hy - 120})">
+<circle cx="${hx}" cy="${hy}" r="158" fill="#fff" stroke="${INK}" stroke-width="${W + 1}"/>${look.shade === false ? '' : `<path d="M ${hx - 110} ${hy + 112} A 158 158 0 0 0 ${hx + 112} ${hy + 112} A 158 158 0 0 1 ${hx - 110} ${hy + 112} Z" fill="#8a93a8" opacity="0.28"/>`}${look.rim ? `<path d="M ${hx + 142} ${hy - 50} A 150 150 0 0 1 ${hx + 60} ${hy + 138}" fill="none" stroke="${look.rim}" stroke-width="8" stroke-linecap="round" opacity="0.75"/>` : ''}
+${cheeks}${face}${look.glasses ? glasses(hx, hy + 4) : ''}${sweat}${tear(mood, hx, hy)}${hair(look.hair, hx, hy, hairC)}${hatKind === 'capback' ? capBack(hx, hy, look.hatColor || '#D8342B') : hat(hatKind, hx, hy, hatCol)}</g>
+${hands(aL, sL)}${hands(aR, sR)}${prop}`;
 }
 const tear = (mood, hx, hy) => (mood === 'sad' || mood === 'worried' ? `<path d="M ${hx - 84} ${hy + 40} Q ${hx - 100} ${hy + 84} ${hx - 84} ${hy + 108} Q ${hx - 66} ${hy + 84} ${hx - 84} ${hy + 40} Z" fill="#bfe6ff" stroke="${INK}" stroke-width="5"/><ellipse cx="${hx - 88}" cy="${hy + 82}" rx="5" ry="10" fill="#fff"/>` : '');
 export function stickSVG(o = {}) { return `<svg xmlns="http://www.w3.org/2000/svg" width="512" height="1084" viewBox="0 -60 512 1084">${stickG(o)}</svg>`; }

diff --git a/reel-studio/remotion-template/src/three/sprite.js b/reel-studio/remotion-template/src/three/sprite.js
@@ -7,9 +7,9 @@ import { drawStick, POSES, EXPR, blendPose, blendExpr } from './stickdraw.js';
 
 const ease = (t) => { t = Math.max(0, Math.min(1, t)); return t * t * (3 - 2 * t); };
 export const COSTUMES = {
-  otto: { hat: 'straw', hatColor: '#E3C06A', band: '#B04A2E', shirt: '#2F7D5B', apron: '#8A5A3A', boots: '#3a2a1c' },
-  mabel: { hat: 'sun', hatColor: '#F2E3B0', band: '#E86F8A', shirt: '#C9556B', scarf: '#F2C14E', boots: '#4a2a2a' },
-  rex: { hat: 'cap', hatColor: '#D8342B', shirt: '#3C5FA8', boots: '#222' },
+  otto: { hat: 'straw', hatColor: '#E3C06A', band: '#B04A2E', shirt: '#E6B93A', sleeve: '#E6B93A', overalls: '#5A7FB0', hair: '#6A3D1C', boots: '#3a2a1c', stache: '#5a3418', nose: 1.5, headTilt: 5, body: { headS: 1.4, torsoW: 0.9, torsoH: 250, legL: 520, hand: 46, shoe: 1.9, armL: 1.3 } },
+  mabel: { hat: 'sun', hatColor: '#F2E3B0', band: '#E86F8A', cardigan: '#C9556B', shirt: '#F4E3C4', sleeve: '#C9556B', scarf: '#F2C14E', hair: '#8A5A3A', boots: '#4a2a2a', nose: 0.8, headTilt: -5, body: { headS: 1.35, torsoW: 1.5, torsoH: 190, legL: 300, hand: 40, shoe: 1.5, armL: 1.0 } },
+  rex: { hat: 'cap', hatColor: '#D8342B', jacket: '#2F9A8D', shirt: '#2F9A8D', sleeve: '#2F9A8D', hair: '#6A3D1C', boots: '#222', freckles: '#b5663a', nose: 1.2, headTilt: 8, body: { headS: 1.7, torsoW: 1.1, torsoH: 150, legL: 260, hand: 48, shoe: 2.0, armL: 1.1 } },
 };
 const keys = (spec, d) => (Array.isArray(spec) ? spec : [[0, spec || d]]);
 /** smooth value between keyframed names: blends the previous and the next name over `ramp` seconds before a key */
